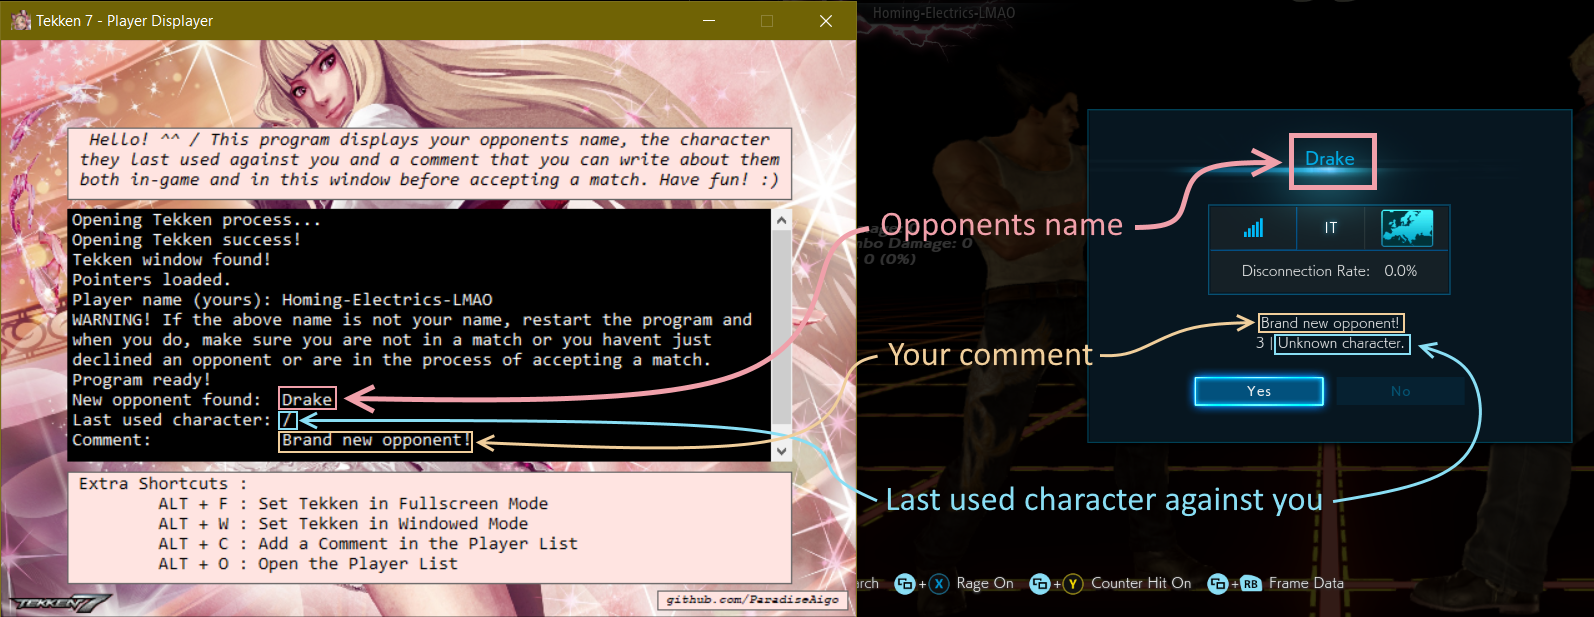
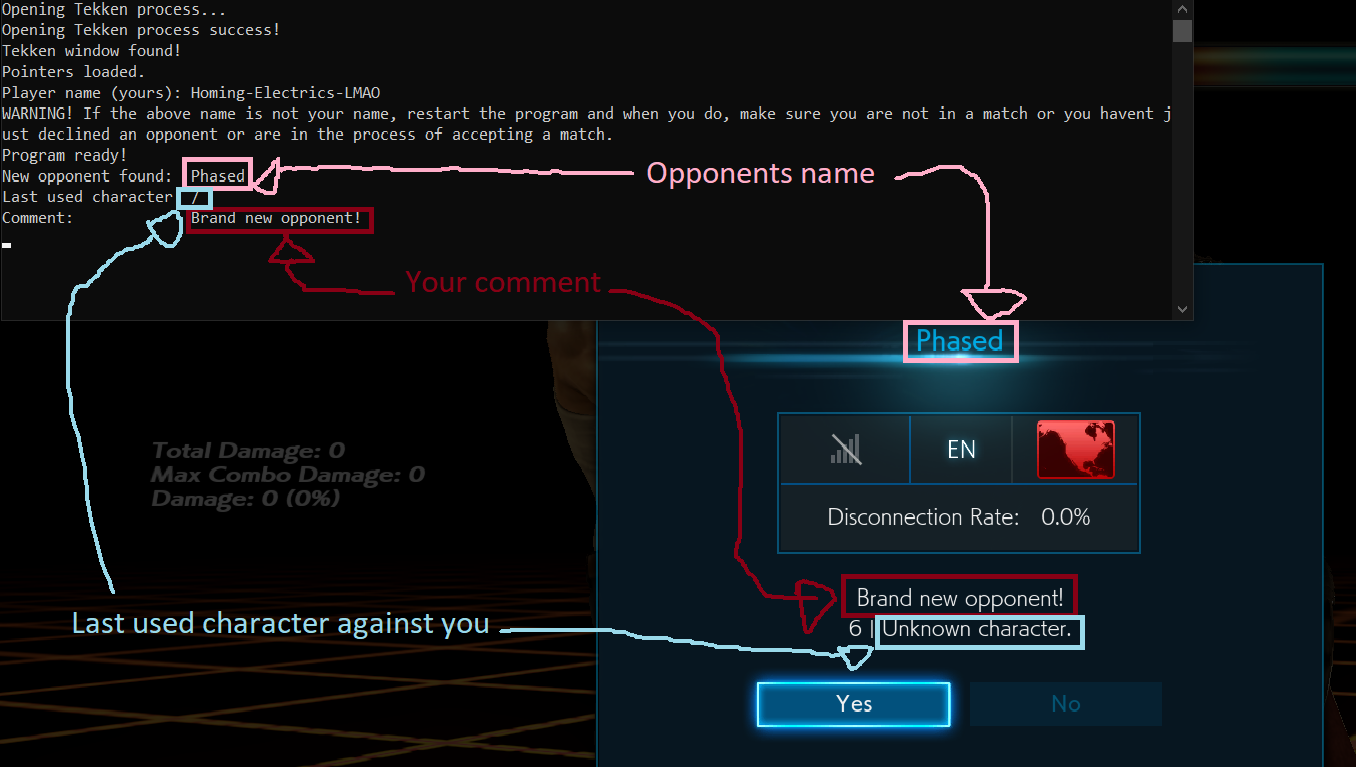
update readme images, update in text box style

diff --git a/Tekken-7-Player-Displayer/window.cpp b/Tekken-7-Player-Displayer/window.cpp
@@ -116,13 +116,13 @@ void createMainWindow() {
         40, 550, 100, FONT_SIZE * 1 + 5, guiWindows.mainWindowHandle);
 
     guiWindows.playerNameValueTextHandle = createWindow(0, TEXT("STATIC"), TEXT(""),
-        WS_CHILD | WS_VISIBLE | WS_BORDER | SS_CENTER,
+        WS_CHILD | WS_VISIBLE | WS_BORDER | SS_CENTER | SS_EDITCONTROL,
         X_TEXTBOX, 200, 380, FONT_SIZE * 1 + 10 + 30, guiWindows.mainWindowHandle);
     guiWindows.opponentNameValueTextHandle = createWindow(0, TEXT("STATIC"), TEXT(""),
         WS_CHILD | WS_VISIBLE | WS_BORDER | SS_CENTER | SS_EDITCONTROL,
         X_TEXTBOX, 330, 380, FONT_SIZE * 1 + 10 + 30, guiWindows.mainWindowHandle);
     guiWindows.opponentCharacterValueTextHandle = createWindow(0, TEXT("STATIC"), TEXT(""),
-        WS_CHILD | WS_VISIBLE | WS_BORDER | SS_CENTER,
+        WS_CHILD | WS_VISIBLE | WS_BORDER | SS_CENTER | SS_EDITCONTROL,
         X_TEXTBOX, 460, 380, FONT_SIZE * 1 + 10 + 30, guiWindows.mainWindowHandle);
     guiWindows.commentValueTextHandle = createWindow(0, TEXT("Edit"), TEXT(""),
         WS_CHILD | WS_VISIBLE | WS_BORDER | ES_MULTILINE | ES_LEFT | ES_AUTOVSCROLL | ES_READONLY,
